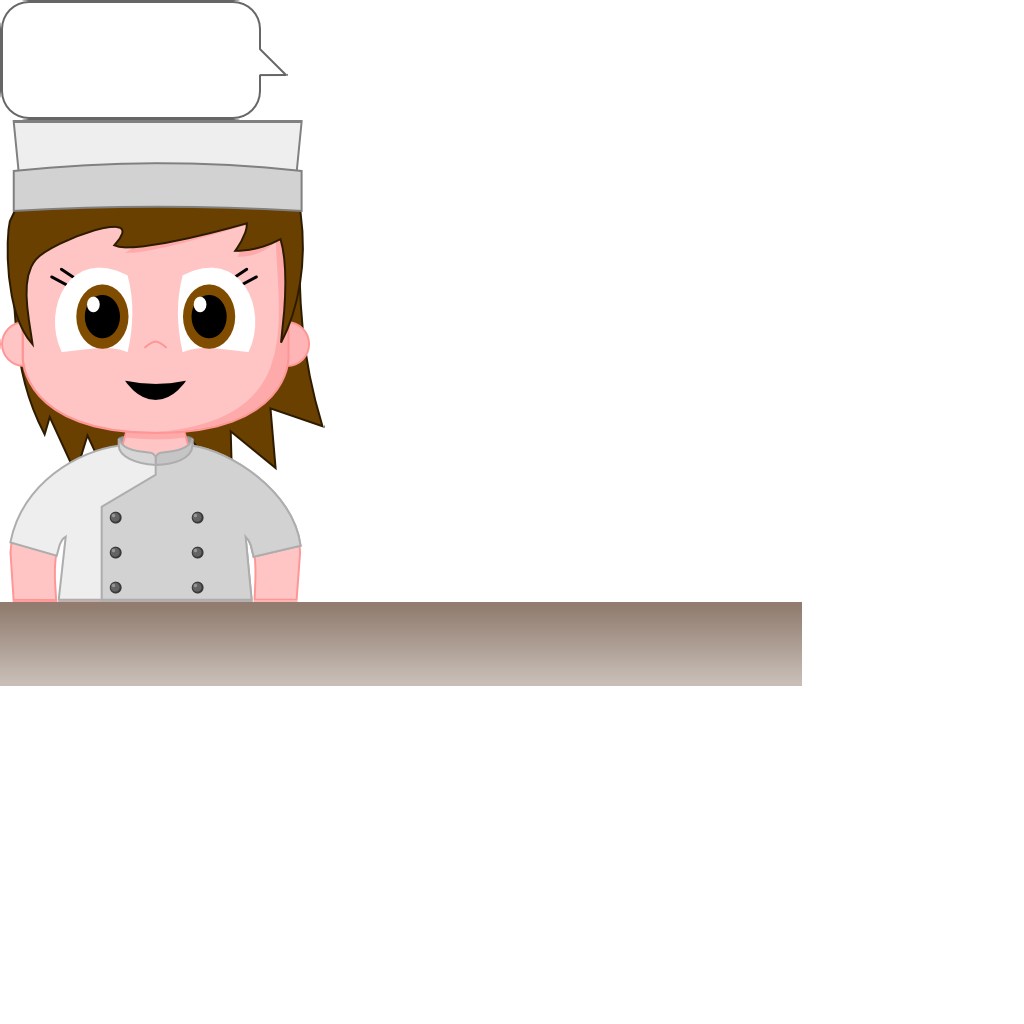
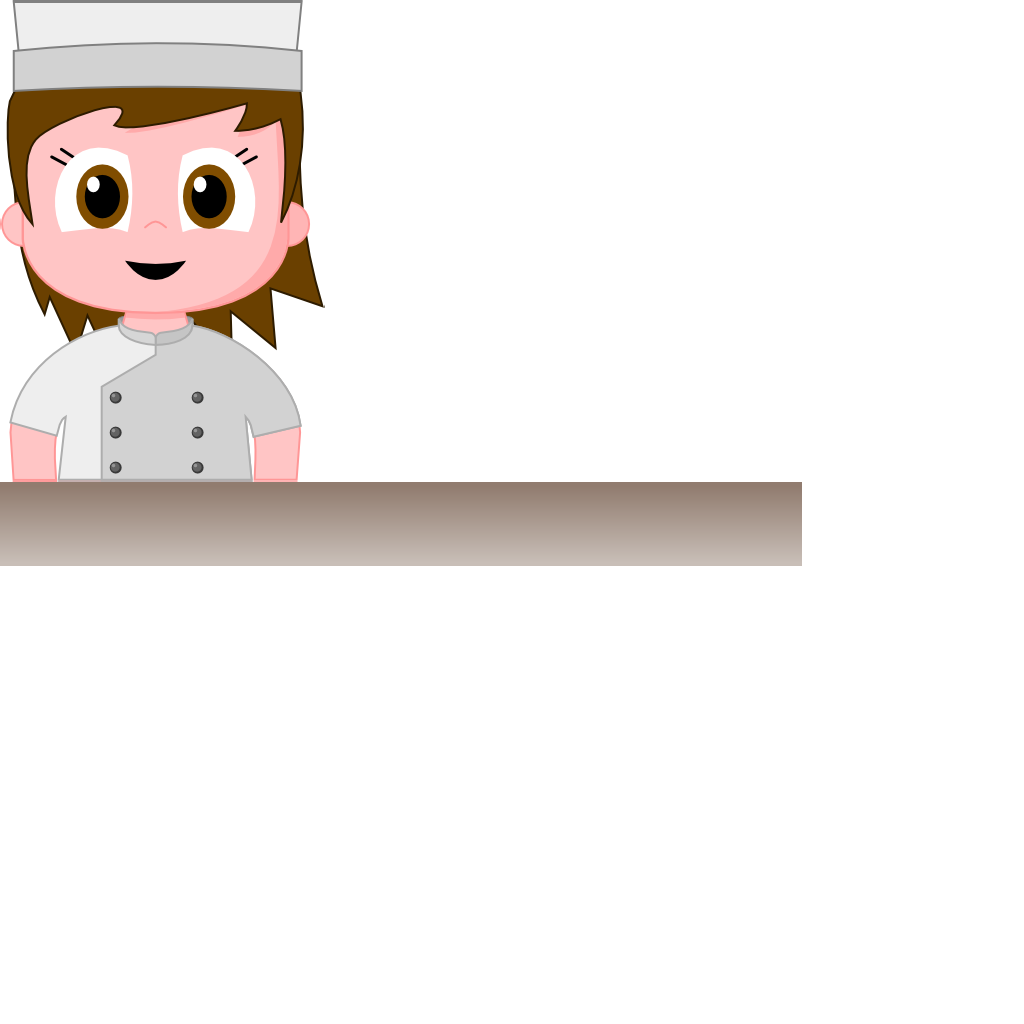
Generic bubble images

Changed region(s): [[0.0, 0.0, 0.7812, 0.6875]]

diff --git a/burgerparty/src/com/agateau/burgerparty/view/WorldView.java b/burgerparty/src/com/agateau/burgerparty/view/WorldView.java
@@ -172,7 +172,7 @@ public class WorldView extends AnchorGroup {
 	}
 
 	private void setupTargetMealView() {
-		mBubble = new Bubble(mAtlas.createPatch("bubble"));
+		mBubble = new Bubble(mAtlas.createPatch("ui/bubble-callout-left"));
 		addActor(mBubble);
 		mTargetMealView = new MealView(mWorld.getTargetBurger(), mWorld.getTargetMealExtra(), mAtlas, false);
 		mTargetMealView.getBurgerView().setPadding(8);

diff --git a/burgerparty/src/com/agateau/burgerparty/screens/NewItemScreen.java b/burgerparty/src/com/agateau/burgerparty/screens/NewItemScreen.java
@@ -47,7 +47,7 @@ public class NewItemScreen extends BurgerPartyScreen {
 	}
 
 	private void setupBubble(String levelDir, String newItemName) {
-		mBubble = new Bubble(Kernel.getTextureAtlas().createPatch(levelDir + "/newitem-bubble"));
+		mBubble = new Bubble(Kernel.getTextureAtlas().createPatch("ui/bubble-callout-right"));
 		mBubble.setColor(1, 1, 1, 0);
 
 		mBubbleContent = new AnchorGroup();
